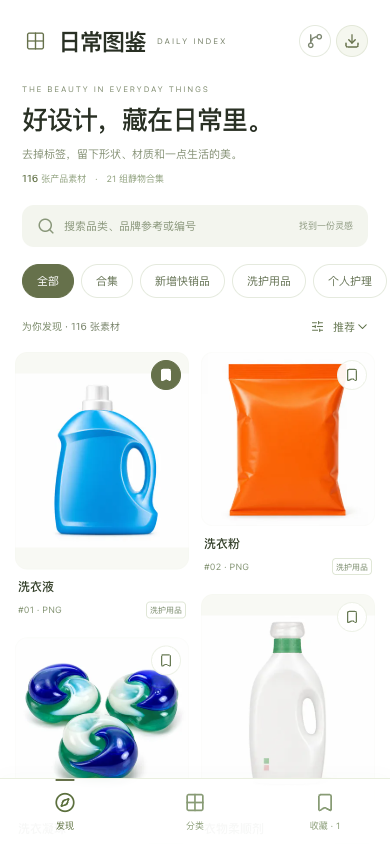
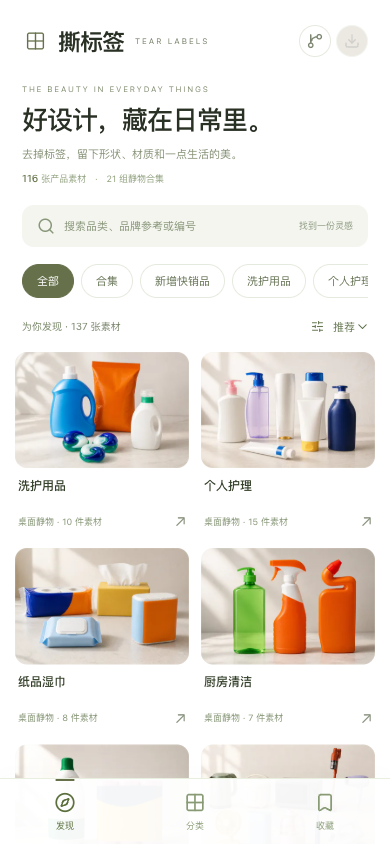
Show 撕标签 project name and updated preview

diff --git a/README.md b/README.md
@@ -15,7 +15,7 @@
 | 图片画廊模板 · Image Gallery Template | <img width="320" alt="Image Gallery Template Preview" src="./portfolio-image-gallery-template.png"> | Astro + Sharp 图片优先模板：AI 根据主题与图片生成可发布画廊，内置压缩、校验、Umami 与静态部署 | [Demo](https://image-gallery-template.xiaosang.cc/) · [Pages](https://holynova.github.io/image-gallery-template/) · [Repo](https://github.com/holynova/image-gallery-template) |
 | 橡胶戳艺术印记 · Rubber Stamp Art Prints | <img width="320" alt="橡胶戳艺术印记 Preview" src="./portfolio-rubber-stamp-world-cities.png"> | 世界城市(30)、十二生肖(12)与二十四节气(24)共 66 枚复古手工多色纯印章艺术画廊 | [Demo](https://holynova.github.io/rubber-stamp-world-cities/) · [Repo](https://github.com/holynova/rubber-stamp-world-cities) |
 | 城市印记 · City Stamp | <img width="320" alt="城市印记 Preview" src="./portfolio-city-stamp.jpg"> | 上海、苏州、北京三座城市的 30 个地标六边形徽章打卡档案，支持点亮、发光与时间记录 | [Demo](https://holynova.github.io/city-stamp/) · [Repo](https://github.com/holynova/city-stamp) |
-| 日用品图鉴 · 去品牌产品图素材库 | <img width="320" alt="日用品图鉴 Preview" src="./portfolio-daily-necessities-library.png"> | Wander 分类瀑布流：116 张去标签产品 PNG 与 21 组静物合集，支持搜索、收藏、分享和原图下载 | [Demo](https://daily-necessities-library.xiaosang.cc/) · [Repo](https://github.com/holynova/daily-necessities-library) |
+| 撕标签 · 去品牌产品图素材库 | <img width="320" alt="撕标签 Preview" src="./portfolio-daily-necessities-library.png"> | Wander 分类瀑布流：116 张去标签产品 PNG 与 21 组静物合集，支持搜索、收藏、分享和原图下载 | [Demo](https://daily-necessities-library.xiaosang.cc/) · [Repo](https://github.com/holynova/daily-necessities-library) |
 | 画风图谱 · 经典艺术与插画流派视觉解构 | <img width="320" alt="画风图谱 Preview" src="./portfolio-art-style-showcase.png"> | 9 大基准测试场景 × 14 种经典绘画与插画流派（全 126 组全量视觉图谱与 Prompt 对照），支持双画风同屏无级滑动对比 | [Demo](https://holynova.github.io/art-style-showcase/) · [Repo](https://github.com/holynova/art-style-showcase) |
 | 穿墙透壁，上海建筑剖透图册 | <img width="320" alt="穿墙透壁 Preview" src="./portfolio-shanghai-through-walls.jpg"> | 以公开资料为证据的上海建筑剖透图册，区分实证结构与受约束的推断复原 | [Demo](https://holynova.github.io/shanghai-through-walls/) · [Repo](https://github.com/holynova/shanghai-through-walls) |
 | 压印之间 · Print Atlas | <img width="320" alt="压印之间 Preview" src="./portfolio-print-atlas.png"> | 从木刻、凹凸平孔版到 CMYK 网点套印的互动印刷图鉴 | [Demo](https://holynova.github.io/print-atlas/) · [Repo](https://github.com/holynova/print-atlas) |
